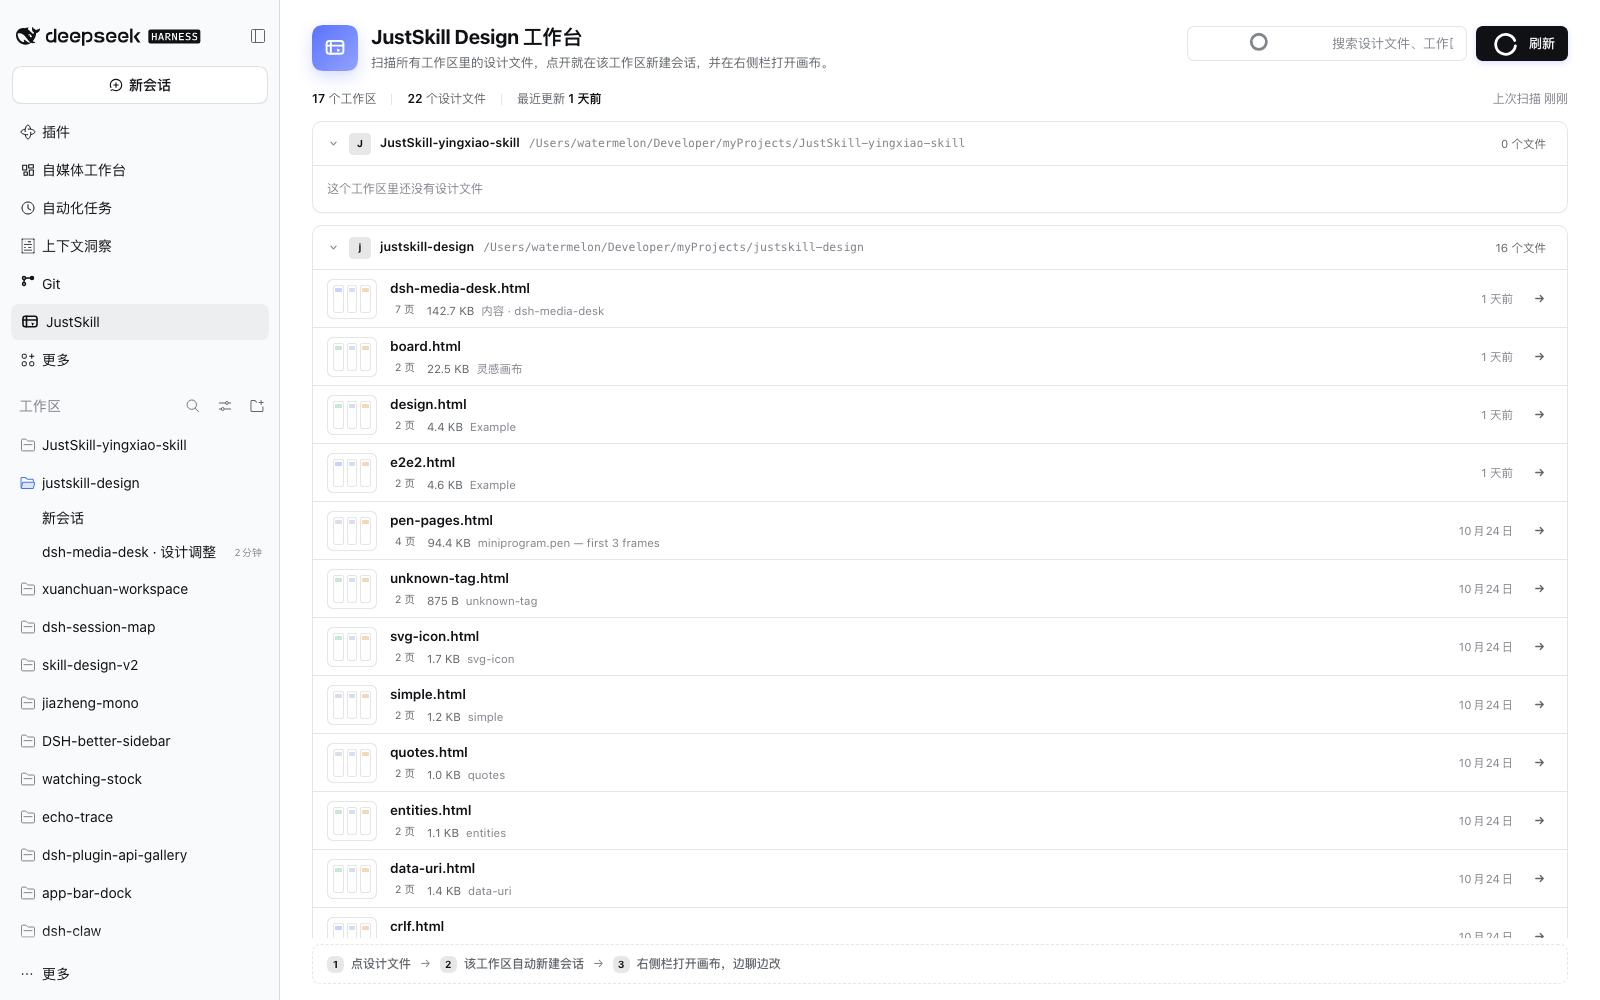
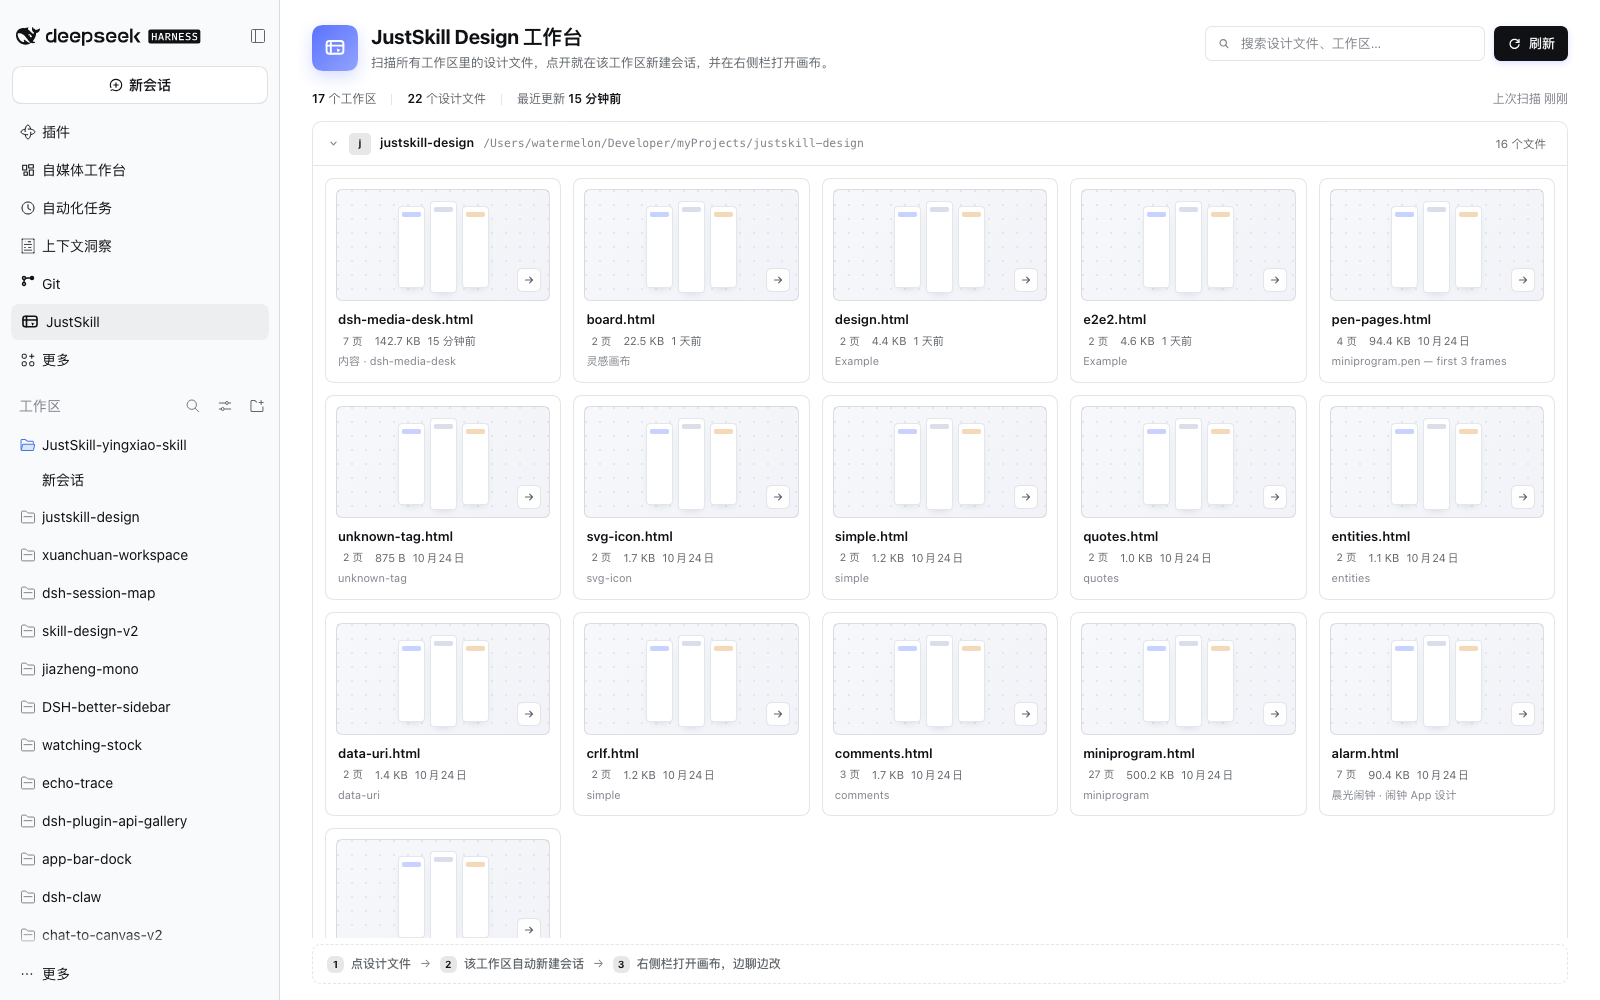
chore: 准备 npm 与 DSH 市场发布
- README 安装段改为 npm 优先，并保留 GitHub / checkout 方式
- package.json 补充 repository / homepage / bugs / dsh 关键词
- 新增市场图标 docs/icon-180.png、icon-512.png 及 screenshots.json
- 更新工作台截图为 grid 版本

diff --git a/README.md b/README.md
@@ -131,13 +131,23 @@ agent 目录；`npx skills update` 负责更新。skill 本身只要约 1 MB（`
 - Agent 要打开画布时会调用 `justskill_canvas` 工具，在右侧栏打开/聚焦 Canvas tab；DSH 下不会再跑 `serve` 或弹浏览器
 - 右栏 Canvas tab 没有指定文件时，会列出**当前工作区**的设计文件，点一个就在该 tab 内打开
 
-从仓库 checkout 安装：
+推荐从 npm 安装：
+
+```sh
+dsh plugin --profile web add justskill-design
+```
+
+也可以直接从 GitHub 安装（不需要 npm）：
+
+```sh
+dsh plugin --profile web add github:justskill-ai/justskill-design
+```
+
+本地开发用 checkout：
 
 ```sh
 dsh plugin --profile web add link:"/path/to/justskill-design"
 ```
-
-发布到 npm 后也可以直接 `dsh plugin --profile web add justskill-design`。
 
 然后在 DSH 的 Plugins 页启用并重启。Desktop 用同一个包，在桌面端的插件页安装即可；
 不想装插件也可以继续用上面的 `npx skills add`——skill 和插件是同一份代码。

diff --git a/README.en.md b/README.en.md
@@ -171,13 +171,23 @@ This repository is also a DSH (DeepSeek Harness) plugin. Installing it:
   does not run `serve` or open a browser
 - with no file selected, the Canvas tab lists the **current workspace** design files; picking one opens it in that tab
 
-From a checkout, link the repository:
+Install from npm:
+
+```sh
+dsh plugin --profile web add justskill-design
+```
+
+Or straight from GitHub (no npm needed):
+
+```sh
+dsh plugin --profile web add github:justskill-ai/justskill-design
+```
+
+For local development, link the checkout:
 
 ```sh
 dsh plugin --profile web add link:"/path/to/justskill-design"
 ```
-
-Once it is published to npm, `dsh plugin --profile web add justskill-design` works too.
 
 Then enable it on the DSH Plugins page and restart. Desktop uses the same package
 from its own plugin page. The plain `npx skills add` route above still works — the
